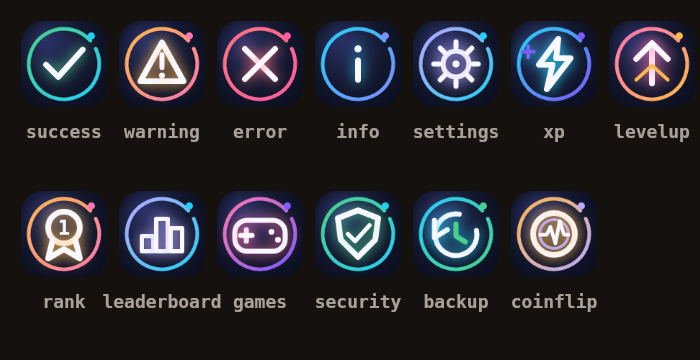
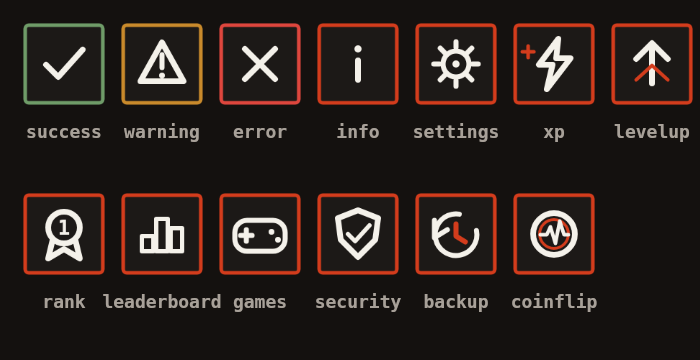
Retone the application emojis to ink and vermilion
emoji-art.ts was the last file in the bot still carrying the old
violet/cyan/pink spectrum. These render as Discord application emojis and
appear inline inside replies, so leaving them would have looked worse
once the embed accents turn red.

- Each emoji is now the same object as the app icon: ink field, hairline
  rule, paper glyph. The radial #293064 -> #080a18 background, the arc
  "orbit", the shadowBlur glow and the decorative corner dot are gone.
- One accent throughout, with a semantic colour only on the three emojis
  that genuinely report state: success moss, warning kincha, error red.
- Glyph geometry is unchanged; only the palette and the frame moved.
- Factor the drawing into drawEmoji(ctx, name, t) with renderEmoji
  calling it at t=0, so the animation phase has somewhere to go without
  rewriting the file again. xp and levelup lift, backup rotates and
  coinflip squashes edge-on; the rest ignore t.

Changed region(s): [[0.03, 0.0611, 0.99, 0.3056], [0.03, 0.5194, 0.87, 0.7639]]

diff --git a/apps/bot/src/emoji-art.ts b/apps/bot/src/emoji-art.ts
@@ -1,66 +1,157 @@
 import { createCanvas } from "@napi-rs/canvas";
 import type { InochiEmoji } from "./emojis";
 
-const tones: Record<InochiEmoji, [string, string]> = {
-  success: ["#47d18c", "#25d0f5"], warning: ["#ffb84d", "#ff77b2"], error: ["#ff747d", "#ff5da2"], info: ["#25d0f5", "#7c8dff"],
-  settings: ["#b8aaff", "#25d0f5"], xp: ["#25d0f5", "#7c5cff"], levelup: ["#ff77b2", "#ffb84d"], rank: ["#ffb84d", "#ff77b2"],
-  leaderboard: ["#b8aaff", "#25d0f5"], games: ["#ff77b2", "#7c5cff"], security: ["#47d18c", "#25d0f5"], backup: ["#25d0f5", "#47d18c"], coinflip: ["#ffb84d", "#b8aaff"],
+/*
+  Ink and Vermilion, matching apps/web/app/globals.css and the seal mark.
+
+  These render as Discord application emojis and appear inline inside bot
+  replies, so they were the last thing still carrying the old violet/cyan/pink
+  spectrum after the redesign. Each one is now the same object as the app icon:
+  an ink field, a hairline rule, and a paper glyph.
+
+  Colour rules, same as the rest of the product: one accent everywhere, and a
+  semantic colour only where the emoji genuinely reports state.
+*/
+const INK = "#14110f";
+const INK_RAISED = "#1c1917";
+const PAPER = "#f4f1ea";
+const MUTED = "#a8a199";
+const VERMILION = "#d33c1c";
+const MOSS = "#6f9c68";
+const KINCHA = "#c98a2b";
+const DANGER = "#de463d";
+
+// The rule colour for each emoji. Only the three state emojis differ.
+const accents: Record<InochiEmoji, string> = {
+  success: MOSS,
+  warning: KINCHA,
+  error: DANGER,
+  info: VERMILION,
+  settings: VERMILION,
+  xp: VERMILION,
+  levelup: VERMILION,
+  rank: VERMILION,
+  leaderboard: VERMILION,
+  games: VERMILION,
+  security: VERMILION,
+  backup: VERMILION,
+  coinflip: VERMILION,
 };
 
-export function renderEmoji(name: InochiEmoji) {
-  const [primary, secondary] = tones[name];
-  const canvas = createCanvas(128, 128);
-  const ctx = canvas.getContext("2d") as unknown as CanvasRenderingContext2D;
+/*
+  `t` is animation phase in [0, 1). renderEmoji passes 0, so a static render is
+  just the first frame. Only the emojis listed in ANIMATED read it; the rest
+  ignore it entirely and render identically at every phase.
+*/
+export function drawEmoji(ctx: CanvasRenderingContext2D, name: InochiEmoji, t = 0) {
+  const accent = accents[name];
   const line = (points: [number, number][], close = false) => {
     ctx.beginPath();
-    points.forEach(([x, y], index) => index ? ctx.lineTo(x, y) : ctx.moveTo(x, y));
+    points.forEach(([x, y], index) => (index ? ctx.lineTo(x, y) : ctx.moveTo(x, y)));
     if (close) ctx.closePath();
     ctx.stroke();
   };
 
-  const background = ctx.createRadialGradient(38, 28, 4, 64, 64, 92);
-  background.addColorStop(0, "#293064");
-  background.addColorStop(.52, "#13182f");
-  background.addColorStop(1, "#080a18");
-  ctx.fillStyle = background;
-  ctx.beginPath();
-  ctx.roundRect(4, 4, 120, 120, 30);
-  ctx.fill();
+  ctx.clearRect(0, 0, 128, 128);
 
-  const orbit = ctx.createLinearGradient(18, 16, 108, 112);
-  orbit.addColorStop(0, primary);
-  orbit.addColorStop(1, secondary);
-  ctx.strokeStyle = orbit;
-  ctx.lineWidth = 5;
-  ctx.lineCap = "round";
+  // Seal: ink field, then a hairline rule inset from it. No gradient, no glow.
+  ctx.fillStyle = INK;
   ctx.beginPath();
-  ctx.arc(64, 64, 49, -.45, Math.PI * 1.77);
+  ctx.roundRect(4, 4, 120, 120, 8);
+  ctx.fill();
+  ctx.fillStyle = INK_RAISED;
+  ctx.beginPath();
+  ctx.roundRect(10, 10, 108, 108, 5);
+  ctx.fill();
+  ctx.strokeStyle = accent;
+  ctx.lineWidth = 5;
+  ctx.beginPath();
+  ctx.roundRect(10, 10, 108, 108, 5);
   ctx.stroke();
-  ctx.shadowColor = primary;
-  ctx.shadowBlur = 13;
-  ctx.strokeStyle = "#f8f8ff";
-  ctx.fillStyle = "#f8f8ff";
+
+  ctx.strokeStyle = PAPER;
+  ctx.fillStyle = PAPER;
   ctx.lineWidth = 8;
+  ctx.lineCap = "round";
   ctx.lineJoin = "round";
 
+  // Glyph geometry is carried over unchanged; only the palette moved.
   if (name === "success") line([[39, 65], [56, 82], [90, 44]]);
   if (name === "warning") { line([[64, 34], [94, 88], [34, 88]], true); ctx.lineWidth = 7; line([[64, 51], [64, 69]]); ctx.beginPath(); ctx.arc(64, 80, 4, 0, Math.PI * 2); ctx.fill(); }
   if (name === "error") { line([[43, 43], [85, 85]]); line([[85, 43], [43, 85]]); }
   if (name === "info") { ctx.beginPath(); ctx.arc(64, 43, 5, 0, Math.PI * 2); ctx.fill(); line([[64, 59], [64, 86]]); }
   if (name === "settings") { ctx.lineWidth = 7; ctx.beginPath(); ctx.arc(64, 64, 18, 0, Math.PI * 2); ctx.stroke(); ctx.beginPath(); ctx.arc(64, 64, 5, 0, Math.PI * 2); ctx.fill(); for (let i = 0; i < 8; i++) { const a = i * Math.PI / 4; line([[64 + Math.cos(a) * 23, 64 + Math.sin(a) * 23], [64 + Math.cos(a) * 31, 64 + Math.sin(a) * 31]]); } }
-  if (name === "xp") { line([[70, 29], [43, 65], [62, 65], [54, 99], [87, 56], [67, 56]], true); ctx.lineWidth = 5; ctx.strokeStyle = secondary; line([[28, 39], [28, 55]]); line([[20, 47], [36, 47]]); }
-  if (name === "levelup") { line([[64, 91], [64, 37]]); line([[42, 57], [64, 35], [86, 57]]); ctx.strokeStyle = secondary; ctx.lineWidth = 5; line([[42, 86], [64, 66], [86, 86]]); }
+  if (name === "xp") {
+    // Rises and settles: a short travel so the bolt reads as gaining, not drifting.
+    const lift = Math.sin(t * Math.PI * 2) * 4;
+    ctx.save();
+    ctx.translate(0, -lift);
+    line([[70, 29], [43, 65], [62, 65], [54, 99], [87, 56], [67, 56]], true);
+    ctx.restore();
+    ctx.lineWidth = 5;
+    ctx.strokeStyle = accent;
+    line([[28, 39], [28, 55]]);
+    line([[20, 47], [36, 47]]);
+  }
+  if (name === "levelup") {
+    const lift = Math.sin(t * Math.PI * 2) * 5;
+    ctx.save();
+    ctx.translate(0, -lift);
+    line([[64, 91], [64, 37]]);
+    line([[42, 57], [64, 35], [86, 57]]);
+    ctx.restore();
+    ctx.strokeStyle = accent;
+    ctx.lineWidth = 5;
+    line([[42, 86], [64, 66], [86, 86]]);
+  }
   if (name === "rank") { ctx.beginPath(); ctx.arc(64, 55, 22, 0, Math.PI * 2); ctx.stroke(); line([[48, 73], [42, 98], [64, 85], [86, 98], [80, 73]]); ctx.font = "800 28px Inochi Sans, sans-serif"; ctx.textAlign = "center"; ctx.fillText("1", 64, 65); }
   if (name === "leaderboard") { ctx.lineWidth = 6; line([[36, 88], [36, 67], [52, 67], [52, 88]], true); line([[56, 88], [56, 43], [72, 43], [72, 88]], true); line([[76, 88], [76, 56], [92, 56], [92, 88]], true); }
   if (name === "games") { ctx.lineWidth = 7; ctx.beginPath(); ctx.roundRect(29, 45, 70, 43, 17); ctx.stroke(); line([[45, 58], [45, 74]]); line([[37, 66], [53, 66]]); ctx.beginPath(); ctx.arc(80, 61, 4, 0, Math.PI * 2); ctx.fill(); ctx.beginPath(); ctx.arc(89, 72, 4, 0, Math.PI * 2); ctx.fill(); }
   if (name === "security") { line([[64, 31], [92, 42], [88, 72], [64, 96], [40, 72], [36, 42]], true); ctx.lineWidth = 6; line([[50, 64], [60, 74], [80, 52]]); }
-  if (name === "backup") { ctx.lineWidth = 7; ctx.beginPath(); ctx.arc(64, 65, 29, -.2, Math.PI * 1.55); ctx.stroke(); line([[34, 45], [34, 69], [52, 58]]); ctx.strokeStyle = secondary; line([[64, 50], [64, 67], [77, 75]]); }
-  if (name === "coinflip") { ctx.beginPath(); ctx.arc(64, 64, 29, 0, Math.PI * 2); ctx.stroke(); ctx.lineWidth = 4; ctx.strokeStyle = secondary; ctx.beginPath(); ctx.arc(64, 64, 20, 0, Math.PI * 2); ctx.stroke(); ctx.strokeStyle = "#f8f8ff"; ctx.lineWidth = 5; line([[45, 65], [54, 65], [59, 54], [66, 77], [72, 46], [78, 65], [84, 65]]); }
+  if (name === "backup") {
+    // One full rotation across the loop, which is what a sync arrow should do.
+    ctx.save();
+    ctx.translate(64, 65);
+    ctx.rotate(t * Math.PI * 2);
+    ctx.translate(-64, -65);
+    ctx.lineWidth = 7;
+    ctx.beginPath();
+    ctx.arc(64, 65, 29, -.2, Math.PI * 1.55);
+    ctx.stroke();
+    line([[34, 45], [34, 69], [52, 58]]);
+    ctx.restore();
+    ctx.strokeStyle = accent;
+    ctx.lineWidth = 7;
+    line([[64, 50], [64, 67], [77, 75]]);
+  }
+  if (name === "coinflip") {
+    // Squash on the horizontal axis so the coin reads as turning edge-on.
+    const turn = Math.abs(Math.cos(t * Math.PI * 2));
+    const flat = turn < 0.06;
+    ctx.save();
+    ctx.translate(64, 64);
+    ctx.scale(Math.max(turn, 0.06), 1);
+    ctx.translate(-64, -64);
+    ctx.beginPath();
+    ctx.arc(64, 64, 29, 0, Math.PI * 2);
+    ctx.stroke();
+    ctx.lineWidth = 4;
+    ctx.strokeStyle = accent;
+    ctx.beginPath();
+    ctx.arc(64, 64, 20, 0, Math.PI * 2);
+    ctx.stroke();
+    if (!flat) {
+      ctx.strokeStyle = PAPER;
+      ctx.lineWidth = 5;
+      line([[45, 65], [54, 65], [59, 54], [66, 77], [72, 46], [78, 65], [84, 65]]);
+    }
+    ctx.restore();
+  }
+}
 
-  ctx.shadowBlur = 0;
-  ctx.fillStyle = secondary;
-  ctx.beginPath();
-  ctx.arc(102, 25, 5, 0, Math.PI * 2);
-  ctx.fill();
+export function renderEmoji(name: InochiEmoji) {
+  const canvas = createCanvas(128, 128);
+  const ctx = canvas.getContext("2d") as unknown as CanvasRenderingContext2D;
+  drawEmoji(ctx, name, 0);
   return canvas.toBuffer("image/png");
 }
